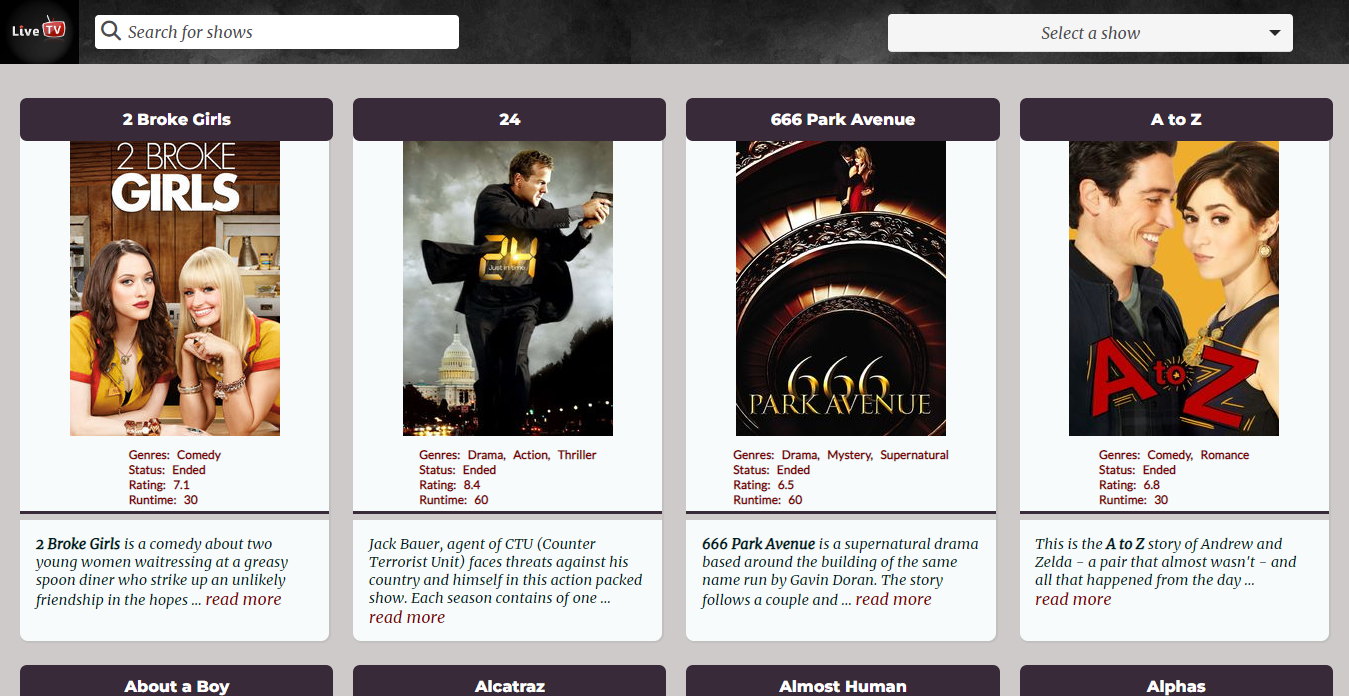
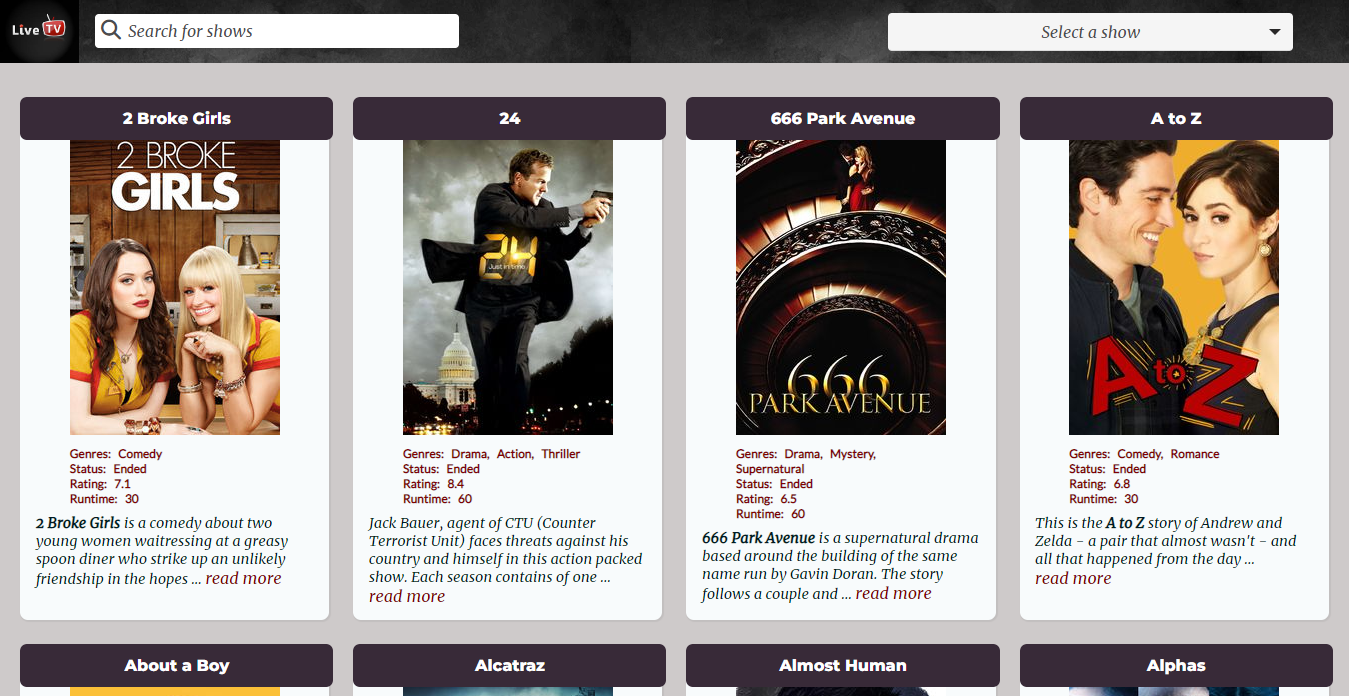
improved framer motion animation implementation

diff --git a/client/src/App.css b/client/src/App.css
@@ -8,6 +8,7 @@ font-family: 'Source Sans Pro', sans-serif;
 
 :root {
 	--primary-background: #bbbcbf;
+	--primary-background: #c5c5c5;
 	--secondary-background: #9297b3;
 	--home-background: #f8f8f8;
 	--projects-background: #f8f8f8;
@@ -44,9 +45,17 @@ font-family: 'Source Sans Pro', sans-serif;
 	--secondary-background: #121212;
 	--secondary-background: black;
 	--secondary-background: #030305;
+	--secondary-background: #030305;
+	/* --secondary-background: #1A1A1A; */
+	--projects-container-bg: #1A1A1A;
 	--projects-container-bg: #1A1A1A;
 	--projects-bg: #343434;
 	--projects-bg: #383842;
+	--projects-bg: #1B1B12;
+	--projects-bg: #2d2c2e;
+	--projects-bg: #232125;
+	--projects-bg: #2e2d30;
+	/* --projects-bg: #2e2e47; */
 	--home-background: url('./images/background-home-desktop.jpg');
 	--projects-background: url('./images/background-destination-desktop.jpg');
 	--hero-banner-text: 'Playfair Display', serif;
@@ -59,9 +68,10 @@ font-family: 'Source Sans Pro', sans-serif;
 	--secondary-font-family: 'Montserrat', sans-serif;
 	--text-primary-color: white;
 	--home-font-weight: 300;
-	--text-secondary-color: aliceblue;
+	--text-secondary-color: #f8f8f8;;
 	--button-hover-bg: #309ec7;
 	--projects-container-hover: #61678b;
+	--projects-container-hover: #343434;
 	--active-nav-link: #fd3a57;
 	--active-nav-link: #c5d4d8;
 	--nav-links-color: #afc1ca;
@@ -81,4 +91,5 @@ font-family: 'Source Sans Pro', sans-serif;
 	background-repeat: no-repeat;
 	background-size: cover; */
 	padding-bottom: 3%;
+	position: absolute;
 }

diff --git a/client/src/pages/projects/Projects.css b/client/src/pages/projects/Projects.css
@@ -1,8 +1,6 @@
 .projects-main-container {
 	width: 100%;
 	height: 100%;
-	/* margin: 0;
-	padding: 0; */
 	background-color: var(--secondary-background);
 }
 
@@ -11,32 +9,13 @@
 	padding: 3% 0;
 	margin: auto;
 	display: grid;
-	grid-template-columns: repeat(4, 1fr);
+	grid-template-columns: repeat(3, 1fr);
 	align-content: flex-start;
 	justify-content: center;
 	grid-auto-rows: auto;
 	grid-auto-columns: auto;
 	gap: 2rem;
-	/* background: var(--projects-background); */
-	/* background: #333649;
-	background: #1E272B; */
-	/* background: #2B291E; */
-	 
-	
-	/* background: #221E2B;
-	background: #333649; */
-	background-position: center;
-	background-repeat: no-repeat;
-	background-size: cover;
-	height: 100%;
-	/* padding: 3%; */
 }
-
-/* .theme-icons-and-radio-btn {
-	display: flex;
-	justify-content: center;
-	align-items: center;
-} */
 
 .project-wrapper {
 	width: 100%;
@@ -67,8 +46,7 @@
 	padding: 0.5rem 0;
 	border-radius: 4px;
 	color: var(--text-secondary-color);
-	border-bottom: solid 3px var(--projects-container-bg);
-	/* color: var(--nav-links-color); */
+	/* border-bottom: solid 3px var(--projects-container-bg); */
 }
 
 .project-wrapper img {
@@ -80,12 +58,11 @@
 	width: 90%;
 	margin: 0.5rem auto;
 	color: var(--text-secondary-color);
-	color: var(--nav-links-color);
 }
 
-.anchor-css-class {
-	color: var(--active-nav-link);
-}
+/* .anchor-css-class {
+	color: var(--text-primary-color);
+} */
 .project-links-wrapper {
 	width: 100%;
 	display: flex;

diff --git a/client/src/pages/projects/Projects.js b/client/src/pages/projects/Projects.js
@@ -36,7 +36,7 @@ const Projects = ({ projects, setClickedProject, setReadMore }) => {
 			e.target.innerText === 'read more ▼' ||
 			e.target.innerText === 'read less ▲'
 		) {
-			let wrappers = document.querySelectorAll('.projects-wrapper');
+			let wrappers = document.querySelectorAll('.project-wrapper');
 			for (let i = 0; i < wrappers.length; i++) {
 				const element = wrappers[i];
 				if (
@@ -44,7 +44,7 @@ const Projects = ({ projects, setClickedProject, setReadMore }) => {
 					e.target.innerText === 'read more ▼'
 				) {
 					element.style.height = '100%';
-					navigate('/readmore');
+					// navigate('/readmore');
 				} else if (
 					element.id === e.currentTarget.id &&
 					e.target.innerText === 'read less ▲'
@@ -66,10 +66,15 @@ const Projects = ({ projects, setClickedProject, setReadMore }) => {
 	return (
 		<motion.div
 			className='projects-main-container'
-			initial={{ opacity: 0 }}
-			animate={{ opacity: 1 }}
-			exit={{ opacity: 0 }}
-			transition={{ ease: [0.87, 0, 0.13, 1], duration: 1.5 }}
+			initial={{ y: '100%' }}
+			animate={{ y: 0 }}
+			// exit={{ y: '100%' }}
+			transition={{
+				type: 'spring',
+				stiffness: 50,
+				ease: [0.87, 0, 0.13, 1],
+				duration: 1.5,
+			}}
 		>
 			<div className='projects-wrapper'>
 				{projects.map((project, idx) => {

diff --git a/client/src/pages/about/About.js b/client/src/pages/about/About.js
@@ -17,10 +17,15 @@ const About = () => {
 	return (
 		<motion.main
 			className='about-page-main-container'
-			initial={{ opacity: 0 }}
-			animate={{ opacity: 1 }}
-			exit={{ opacity: 0 }}
-			transition={{ ease: [0.87, 0, 0.13, 1], duration: 1.5 }}
+			initial={{ y: '100%' }}
+			animate={{ y: 0 }}
+			transition={{
+				type: 'spring',
+				stiffness: 50,
+				damping: 10,
+				ease: [0.87, 0, 0.13, 1],
+				duration: 1,
+			}}
 		>
 			<div className='about-page-wrapper'>
 				<div className='about-img-wrapper'>

diff --git a/client/src/pages/details/ProjectDetails.js b/client/src/pages/details/ProjectDetails.js
@@ -9,9 +9,14 @@ const ProjectDetails = ({ clickedProject }) => {
 	return (
 		<motion.div
 			className='project-details-page'
-			initial={{ opacity: 0.5 }}
-			animate={{ opacity: 1 }}
-			exit={{ opacity: 0.5 }}
+			initial={{ y: '100%' }}
+			animate={{ y: 0 }}
+			transition={{
+				type: 'spring',
+				stiffness: 40,
+				ease: [0.87, 0, 0.13, 1],
+				duration: 1.5,
+			}}
 		>
 			<h1 className='details-title'>{clickedProject.title}</h1>
 			<div className='project-details-wrapper'>

diff --git a/client/src/pages/home/Home.js b/client/src/pages/home/Home.js
@@ -28,13 +28,9 @@ const Home = () => {
 	return (
 		<motion.div
 			className='home'
-			initial={{ opacity: 0 }}
-			animate={{ opacity: 1 }}
-			exit={{ opacity: 0 }}
-			transition={{
-				ease: [0.87, 0, 0.13, 1],
-				duration: 1.5,
-			}}
+			initial={{ y: '100%' }}
+			animate={{ y: 0 }}
+			transition={{ type: 'spring', stiffness: 50, ease: [0.87, 0, 0.13, 1], duration: 1 }}
 		>
 			<section className='hero'>
 				<div className='hero-text-container'>

diff --git a/client/src/pages/contact/Contact.js b/client/src/pages/contact/Contact.js
@@ -4,10 +4,14 @@ import './Contact.css';
 const Contact = () => {
 	return (
 		<motion.div
-			initial={{ opacity: 0 }}
-			animate={{ opacity: 1 }}
-			exit={{ opacity: 0 }}
-			transition={{ ease: [0.87, 0, 0.13, 1], duration: 1.5 }}
+			initial={{ y: '100%' }}
+			animate={{ y: 0 }}
+			transition={{
+				type: 'spring',
+				stiffness: 40,
+				ease: [0.87, 0, 0.13, 1],
+				duration: 1.5,
+			}}
 		>
 			<h1>Contact Page</h1>
 		</motion.div>

diff --git a/client/src/components/header/Header.css b/client/src/components/header/Header.css
@@ -5,6 +5,8 @@
 	height: 10vh;
 	background-color: var(--primary-background);
 	color: var(--text-secondary-color);
+	z-index: 100;
+	position: relative;
 }
 
 .logo {
